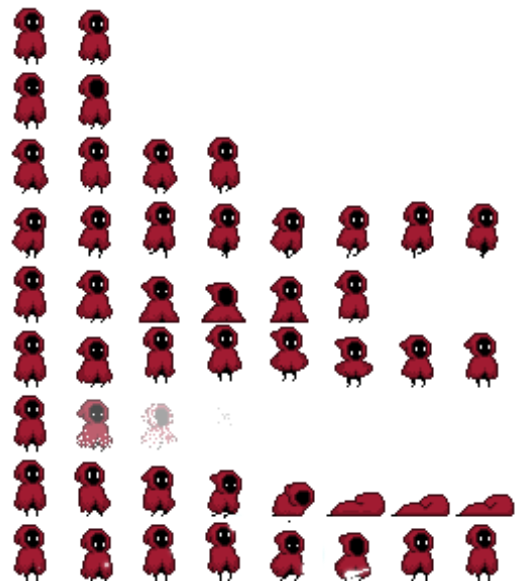
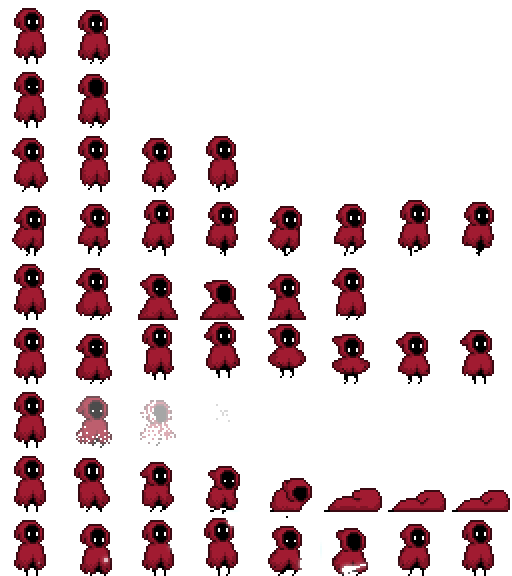
some undoone work

diff --git a/Game/TileMap.cpp b/Game/TileMap.cpp
@@ -30,6 +30,8 @@ TileMap::TileMap(float gridSize, unsigned width, unsigned height, std::string fi
 	this->gridSizeU = static_cast<unsigned>(this->gridSizeF);
 	this->maxSize.x = width;
 	this->maxSize.y = height;
+	this->maxSizeWorld.x = static_cast<float>(width) * gridSize;
+	this->maxSizeWorld.x = static_cast<float>(height) * gridSize;
 	this->layers = 1;
 	this->fileName = fileName;
 	
@@ -49,6 +51,9 @@ TileMap::TileMap(float gridSize, unsigned width, unsigned height, std::string fi
 
 	if (!this->tileTexture.loadFromFile(this->fileName))
 		std::cout << "Texture didnt load: " << this->fileName;
+
+	this->collisionBox.setSize(sf::Vector2f(gridSize, gridSize));
+	this->collisionBox.setFillColor(sf::Color(255, 0, 0, 50));
 }
 
 TileMap::~TileMap()
@@ -62,7 +67,7 @@ void TileMap::update()
 
 }
 
-void TileMap::render(sf::RenderTarget& target)
+void TileMap::render(sf::RenderTarget& target, Entity* entity)
 {
 	for (auto& x : this->map)
 	{
@@ -70,8 +75,15 @@ void TileMap::render(sf::RenderTarget& target)
 		{
 			for (auto& z : y)
 			{
-				if(z != nullptr)
+				if (z != nullptr)
+				{
 					z->render(target);
+					if (z->getCollision())
+					{
+						this->collisionBox.setPosition(z->getPosition());
+						target.draw(this->collisionBox);
+					}
+				}
 			}
 		}
 	}
@@ -156,7 +168,6 @@ void TileMap::saveToFile(const std::string path)
 
 }
 
-
 void TileMap::loadFromFile(const std::string path)
 {
 
@@ -216,4 +227,20 @@ void TileMap::loadFromFile(const std::string path)
 		std::cout << "Tile map not loaded: " << path;
 
 	inFile.close();
+}
+
+void TileMap::updateCollision(Entity* entity)
+{
+	if (entity->getPosition().x < 0.f)
+		entity->setPosition(0.f, entity->getPosition().y);
+
+	else if (entity->getPosition().x > this->maxSizeWorld.x)
+		entity->setPosition(this->maxSizeWorld.x, entity->getPosition().y);
+
+	else if (entity->getPosition().y < 0.f)
+		entity->setPosition(entity->getPosition().x, 0.f);
+
+	else if (entity->getPosition().y > this->maxSizeWorld.y)
+		entity->setPosition(entity->getPosition().x, this->maxSizeWorld.y);
+
 }

diff --git a/Game/EditorState.cpp b/Game/EditorState.cpp
@@ -12,7 +12,7 @@ void EditorState::InitialiseVars()
 	this->mainView.setSize(sf::Vector2f(this->stateData->gSettings->resolution.width, this->stateData->gSettings->resolution.height));
 	this->mainView.setCenter(this->stateData->gSettings->resolution.width / 2, this->stateData->gSettings->resolution.height / 2);
 
-	this->cameraSpeed = 100.f;
+	this->cameraSpeed = 300.f;
 }
 
 void EditorState::InitialiseKeyBinds()
@@ -103,6 +103,8 @@ void EditorState::InitialiseGUI()
 		300, 50, L"ЗАРЕДИ", sf::Color(52, 61, 70, 50), &this->font,
 		sf::Color(192, 197, 206, 0), sf::Color(101, 115, 126, 0), sf::Color(52, 61, 70, 0), 50,
 		sf::Color(107, 36, 12, 250), sf::Color(245, 204, 160, 255), sf::Color(52, 61, 70, 200), sf::Color::Transparent, 0);
+
+
 
 }
 
@@ -238,19 +240,19 @@ void EditorState::updateInput(const float& dt)
 	//up
 	if (sf::Keyboard::isKeyPressed(sf::Keyboard::Key(this->keyBinds["CAMERAUP"])))
 	{
-		this->mainView.move(0.f, this->cameraSpeed * dt);
-	}
-	else if (sf::Keyboard::isKeyPressed(sf::Keyboard::Key(this->keyBinds["CAMERADOWN"])))
-	{
 		this->mainView.move(0.f, -this->cameraSpeed * dt);
 	}
-	else if (sf::Keyboard::isKeyPressed(sf::Keyboard::Key(this->keyBinds["CAMERALEFT"])))
+	if (sf::Keyboard::isKeyPressed(sf::Keyboard::Key(this->keyBinds["CAMERADOWN"])))
 	{
-		this->mainView.move(this->cameraSpeed * dt, 0.f);
+		this->mainView.move(0.f, this->cameraSpeed * dt);
 	}
-	else if (sf::Keyboard::isKeyPressed(sf::Keyboard::Key(this->keyBinds["CAMERARIGHT"])))
+	if (sf::Keyboard::isKeyPressed(sf::Keyboard::Key(this->keyBinds["CAMERALEFT"])))
 	{
 		this->mainView.move(-this->cameraSpeed * dt, 0.f);
+	}
+	if (sf::Keyboard::isKeyPressed(sf::Keyboard::Key(this->keyBinds["CAMERARIGHT"])))
+	{
+		this->mainView.move(this->cameraSpeed * dt, 0.f);
 	}
 }
 

diff --git a/Game/TileMap.h b/Game/TileMap.h
@@ -1,7 +1,9 @@
 #pragma once
 #include "Tile.h"
+#include "Entity.h"
 
-
+class Tile;
+class Entity;
 
 class TileMap
 {
@@ -15,7 +17,11 @@ private:
 
 	sf::Texture tileTexture;
 
+	sf::RectangleShape collisionBox;
+
 	void clear();
+
+	sf::Vector2f maxSizeWorld;
 
 protected:
 	
@@ -26,7 +32,7 @@ public:
 	virtual ~TileMap();
 
 	void update();
-	void render(sf::RenderTarget& target);
+	void render(sf::RenderTarget& target, Entity* entity = nullptr);
 
 	void AddTile(const unsigned x, const unsigned y, const unsigned z, const sf::IntRect& rect, const bool collision, const short type);
 	void RemoveTile(const unsigned x, const unsigned y, const unsigned z);
@@ -35,5 +41,7 @@ public:
 
 	void saveToFile(const std::string path);
 	void loadFromFile(const std::string path);
+
+	void updateCollision(Entity* entity);
 };
 

diff --git a/Game/Player.cpp b/Game/Player.cpp
@@ -11,9 +11,9 @@ Player::Player(sf::Texture& textureSheet, float x, float y)
 	this->InitialiseAnimComp(textureSheet);
 	this->InitialiseHitboxComp(this->sprite, 10.f, 5.f, 40.f, 50.f);
 
-	this->animationComponent->addAnimation("IDLE", 11.f, 0, 4, 5, 4, 64, 65);
-	this->animationComponent->addAnimation("WALK", 7.f, 0, 3, 7, 3, 64, 65);
-	this->animationComponent->addAnimation("ATTACK", 7.f, 0, 8, 7, 8, 64, 65);
+	this->animationComponent->addAnimation("IDLE", 11.f, 0, 4, 5, 4, 64, 64);
+	this->animationComponent->addAnimation("WALK", 7.f, 0, 3, 7, 3, 64, 64);
+	this->animationComponent->addAnimation("ATTACK", 7.f, 0, 8, 7, 8, 64, 64);
 }
 
 Player::~Player()

diff --git a/Game/GameState.cpp b/Game/GameState.cpp
@@ -62,6 +62,7 @@ void GameState::update(const float& dt)
 		this->updateView(dt);
 		this->updatePlayerInput(dt);
 		this->player->update(dt);
+		this->updateTileMap(dt);
 	}
 	else
 	{
@@ -148,7 +149,13 @@ void GameState::updateInput(const float& dt)
 
 void GameState::updateView(const float& dt)
 {
-	this->view.setCenter(this->player->getPosition());
+	this->view.setCenter(std::floor(this->player->getPosition().x), std::floor(this->player->getPosition().y));
+}
+
+void GameState::updateTileMap(const float& dt)
+{
+	this->tileMap->update();
+	this->tileMap->updateCollision(this->player);
 }
 
 void GameState::InitialiseFonts()

diff --git a/Game/Tile.cpp b/Game/Tile.cpp
@@ -41,3 +41,13 @@ const std::string Tile::getAsString() const
 
 	return ss.str();
 }
+
+const sf::Vector2f& Tile::getPosition() const
+{
+	return this->tileShape.getPosition();
+}
+
+const bool& Tile::getCollision() const
+{
+	return this->collision;
+}

diff --git a/Game/GameState.h b/Game/GameState.h
@@ -48,5 +48,7 @@ public:
     void render(sf::RenderTarget* target = nullptr);
     void updateInput(const float& dt);
     void updateView(const float& dt);
+
+    void updateTileMap(const float& dt);
 };
 

diff --git a/Game/Game.cpp b/Game/Game.cpp
@@ -70,7 +70,7 @@ void Game::update()
 {
 	this->updateSFMLevents();
 
-	if (!this->states.empty())
+	if (!this->states.empty() && this->window->hasFocus())
 	{
 		this->states.top()->update(this->dt);
 

diff --git a/Game/Tile.h b/Game/Tile.h
@@ -19,5 +19,8 @@ public:
 
 	const std::string getAsString() const;
 
+	const sf::Vector2f& getPosition() const;
+
+	const bool& getCollision() const;
 };
 
